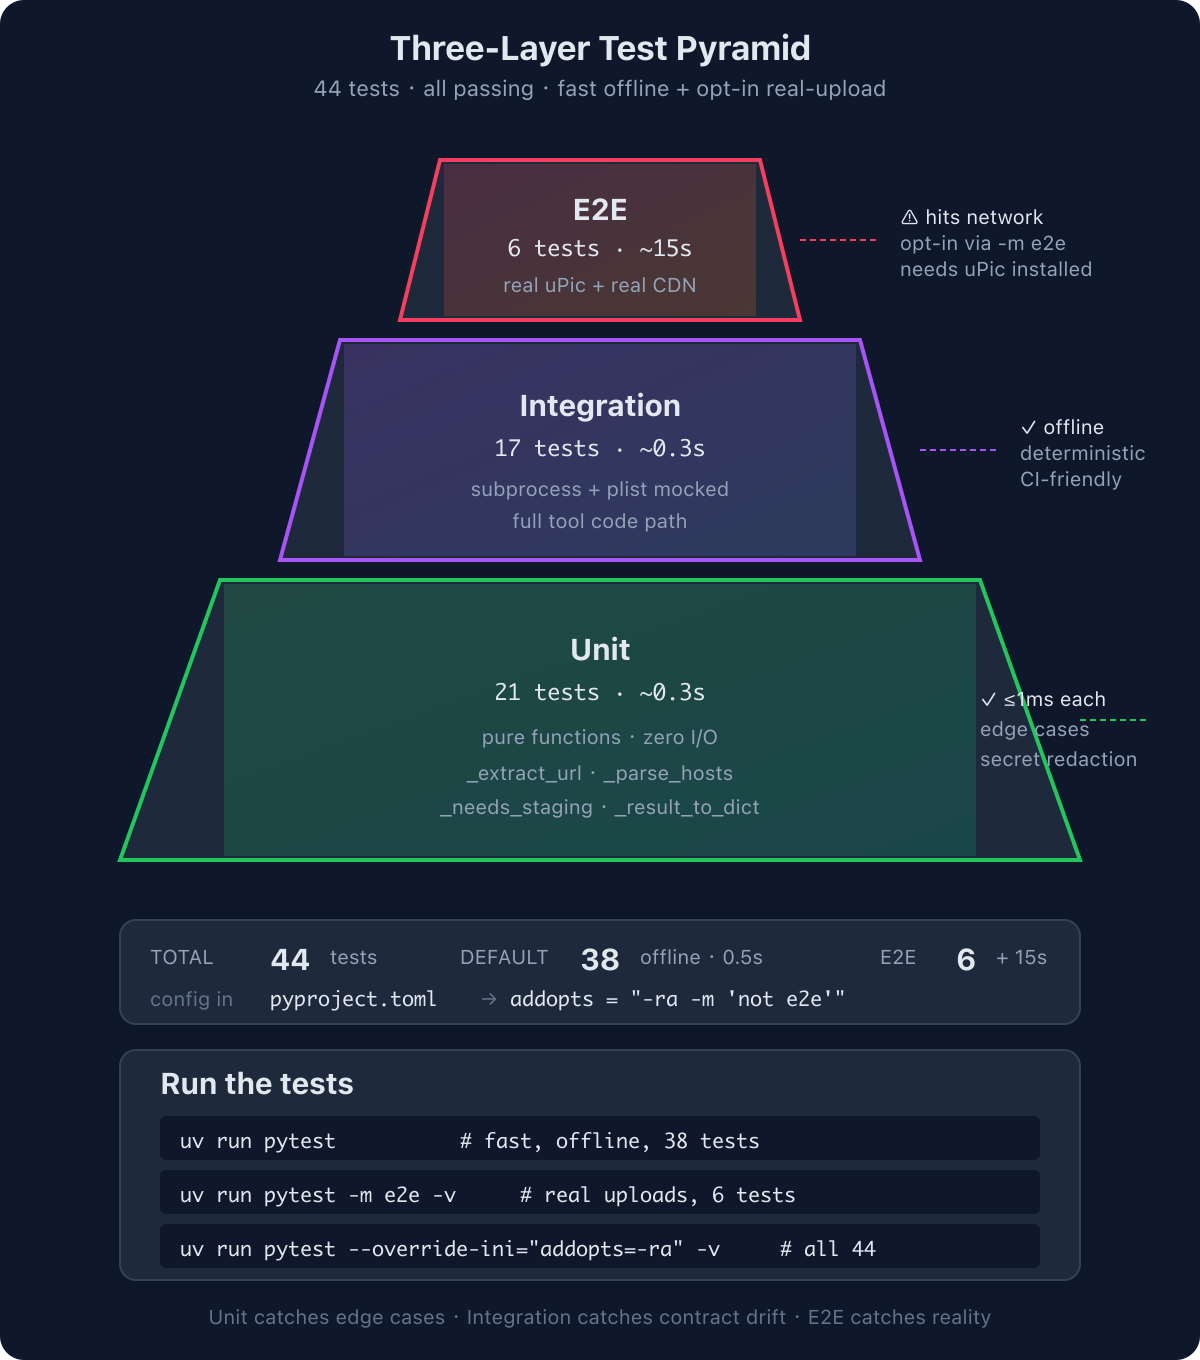
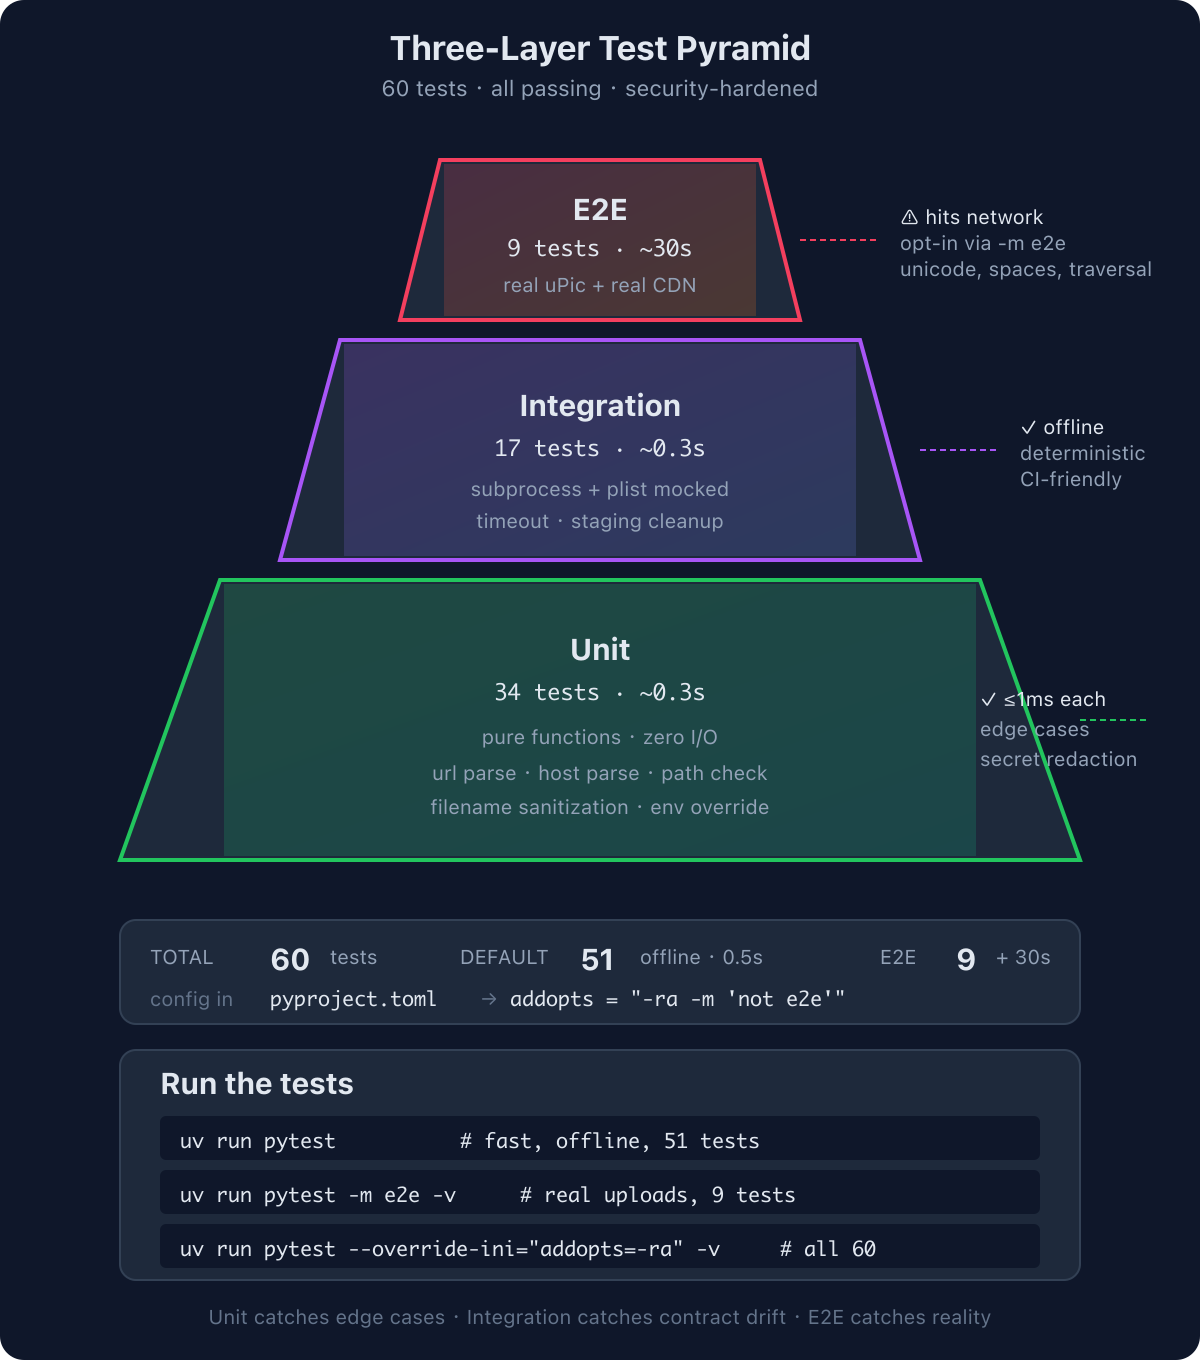
docs: sync documentation with hardening pass (60-test baseline)
Documentation updates reflecting the security/robustness hardening landed
in f9f8e57:

- test-pyramid.svg redrawn with new numbers (34/17/9/60), updated commands
  and side labels. PNG re-rendered and re-uploaded to CDN (URL unchanged).
- README: new Security section (filename traversal, command injection
  non-applicability, secrets exposure, staging cleanup, subprocess
  timeout, no sockets).
- README: new Configuration section documenting UPIC_BINARY env var.
- README: Highlights list augmented with 'Security-hardened' bullet.
- README: Troubleshooting adds 'Two uPic icons in menu bar' and
  'Non-standard uPic.app location' entries.
- README: Roadmap checklist marks completed items.
- README: Testing section counts and runtime updated to 60-test baseline.
- CHANGELOG: Unreleased section documents all doc changes.

diff --git a/README.md b/README.md
@@ -39,7 +39,8 @@ Five MCP tools, production-tested with 44 automated tests:
 - 🌍 **Works with all 12 uPic hosts** — Qiniu KODO / UPYUN / Aliyun OSS / Tencent COS / Amazon S3 / Imgur / GitHub / Gitee / SMMS / Weibo / Baidu BOS / custom.
 - 🗜 **Compression is automatic** — whatever you set in the UI (e.g. "Compress to 90% quality") is applied to MCP uploads too, because both paths go through `BaseUploaderUtil.compressImage`.
 - 📦 **Sandbox-safe** — uPic's sandbox can only read files under a whitelisted set of prefixes. This server detects that and transparently stages out-of-whitelist files.
-- 🧪 **Well-tested** — 21 unit + 17 integration + 6 end-to-end tests. Default `pytest` runs in <1s fully offline; `pytest -m e2e` runs 6 real round-trip uploads in ~15s.
+- 🛡 **Security-hardened** — filename path traversal is blocked (basename sanitization), staging files are auto-cleaned on upload failure, and secrets never appear in tool output. See the [Security](#security) section for the full threat model.
+- 🧪 **Well-tested** — 34 unit + 17 integration + 9 end-to-end tests (60 total). Default `pytest` runs in ~0.5s fully offline; `pytest -m e2e` runs 9 real round-trip uploads in ~30s.
 - 🪶 **Zero-config** — reads your existing uPic configuration directly from `~/Library/Containers/com.svend.uPic.macos/Data/Library/Preferences/com.svend.uPic.macos.plist`.
 
 ## Requirements
@@ -190,22 +191,101 @@ The `quality_factor` field in tool results maps to uPic's **"Compress images bef
 - JPGs use `NSBitmapImageRep.compressionFactor`
 - Other formats (GIF, WebP, SVG, PDF, …) pass through uncompressed
 
+## Configuration
+
+The server ships with zero-config by design — it reads everything from your
+existing uPic UI settings. For non-standard installs, one environment variable
+is supported:
+
+| Variable | Default | Effect |
+|---|---|---|
+| `UPIC_BINARY` | `/Applications/uPic.app/Contents/MacOS/uPic` | Path to the uPic executable. Set this if you built uPic from source, moved the app to a non-standard location, or are running an unsigned developer build. |
+
+Set it in your MCP client's server config under `env`:
+
+```json
+{
+  "mcpServers": {
+    "upic": {
+      "command": "/path/to/upic-mcp/.venv/bin/python",
+      "args": ["/path/to/upic-mcp/server.py"],
+      "env": {
+        "UPIC_BINARY": "/Users/me/build/uPic.app/Contents/MacOS/uPic"
+      }
+    }
+  }
+}
+```
+
+All other settings (default host, image quality, save-key path, output format)
+come from uPic's UI directly. Change them in the menu bar app and the next MCP
+upload picks them up automatically — no server restart needed.
+
+## Security
+
+This server runs locally and never opens a listening socket. Security
+considerations focus on three threat surfaces:
+
+### 1. Filename path traversal (mitigated)
+
+`upload_image_from_base64` accepts an optional `filename` argument that
+controls the local staging path. The filename is sanitized to a **basename
+only** (`Path(filename).name` + leading-dot stripping) so calls like:
+
+```json
+{"data": "...", "filename": "../../etc/passwd"}
+```
+
+cannot write outside `~/.upic-staging/`. The attempt becomes a staged file
+named `passwd`, not a traversal. Empty / dotted-only filenames fall back to
+`image.png`. Covered by 4 unit tests and 1 end-to-end test.
+
+### 2. Command injection (not applicable)
+
+The uPic CLI is invoked via `subprocess.run(cmd, ...)` with `cmd` as a **list**
+of arguments — no shell is involved. File paths and filenames flow through
+as opaque argv values; shell metacharacters (`;`, `` ` ``, `$(…)`, `|`, etc.)
+cannot be interpreted. No `shell=True` appears anywhere in the codebase.
+
+### 3. Secrets exposure (mitigated)
+
+uPic stores host credentials (access keys, secret keys, client IDs) in its
+`UserDefaults` plist. The `list_hosts` tool strips the `data` field entirely
+before returning, so only `id`, `name`, and `type` are ever exposed. A unit
+test asserts that known-secret markers cannot appear in the tool's output.
+
+### Additional hardening
+
+- **Staging cleanup on failure.** When `upload_image_from_base64` fails, the
+  staging file we created is unlinked so bytes don't accumulate in
+  `~/.upic-staging/`. User-supplied file paths are never modified or deleted,
+  even on failure — an integration test pins this invariant.
+- **Subprocess timeout.** Every `_run_upic` call has a 120-second timeout;
+  a hung uPic CLI cannot block the MCP server indefinitely.
+- **No network code.** The MCP server itself never opens a socket. All
+  outbound traffic is uPic's own HTTPS upload to the image host.
+
+### Filesystem footprint
+
+```
+~/.upic-staging/            Staging directory (auto-created, content-hash dedup)
+~/.kiro/settings/mcp.json   Where Kiro learns about this server (you add the entry)
+```
+
+The server never writes anywhere else on disk. Uninstalling is just deleting
+the `upic-mcp/` folder and the `~/.upic-staging/` directory.
+
 ## Testing
 
 <p align="center">
-  <img src="https://img.aws.xin/uPic/test-pyramid.png" alt="Three-layer test pyramid: 21 unit + 17 integration + 6 e2e = 44 tests total" style="width:100%;max-width:720px" />
+  <img src="https://img.aws.xin/uPic/test-pyramid.png" alt="Three-layer test pyramid: 34 unit + 17 integration + 9 e2e = 60 tests total" style="width:100%;max-width:720px" />
 </p>
-
-> The pyramid diagram above reflects the v0.1.0 baseline (44 tests). The current
-> suite has grown to **60 tests** (34 unit + 17 integration + 9 e2e) after the
-> security / robustness hardening pass. All counts and commands below are
-> current.
 
 ```bash
 # Fast, offline, runs in ~0.5s
 uv run pytest                      # 51 passed (9 e2e deselected)
 
-# Real uploads to your CDN, ~15s
+# Real uploads to your CDN, ~30s
 uv run pytest -m e2e -v            # 9 passed
 
 # Everything
@@ -279,10 +359,56 @@ That's expected. `quality_factor` is a **quality** setting, not a size-reduction
 E2E tests require uPic.app to be installed and at least one host configured. CI should run `uv run pytest` (without `-m e2e`), which excludes the e2e suite via the default `addopts` in `pyproject.toml`.
 </details>
 
+<details>
+<summary><strong>Two uPic icons in the menu bar after development / testing</strong></summary>
+
+This happens when uPic is accidentally launched without a `-u` argument — the CLI branch only activates for commands like `uPic -u file.png -o url`. Anything else (including `uPic --help`, `uPic --version`, or a bare `uPic`) falls through to UI mode and spawns a second menu-bar instance.
+
+**MCP uploads never cause this** — `server.py` always invokes `uPic` with `-u`. The duplicate usually comes from manually probing the CLI in a terminal.
+
+**Check & cleanup:**
+
+```bash
+# How many uPic processes are running?
+ps aux | grep -iE "/uPic" | grep -v grep
+
+# Should be 1. If more, identify the stale PID (older START time or a
+# --help-style command) and kill it:
+kill -9 <PID>
+```
+
+The menu bar refreshes on the next click.
+</details>
+
+<details>
+<summary><strong>Using a non-standard uPic.app location</strong></summary>
+
+Set the `UPIC_BINARY` environment variable in the server's MCP config:
+
+```json
+{
+  "upic": {
+    "command": "/path/to/.venv/bin/python",
+    "args": ["/path/to/server.py"],
+    "env": {
+      "UPIC_BINARY": "/Users/me/build/uPic.app/Contents/MacOS/uPic"
+    }
+  }
+}
+```
+
+Also see the [Configuration](#configuration) section.
+</details>
+
 ## Roadmap
 
-This project is the `upload-only` MVP. Planned expansion in rough priority order:
+The MVP upload pipeline is production-hardened with 60 passing tests. Planned
+expansion in rough priority order:
 
+- [x] ~~Upload by path, base64, and automatic sandbox staging~~ (v0.1.0)
+- [x] ~~`list_hosts`, `get_default_host`, `uploader_info`~~ (v0.1.0)
+- [x] ~~Environment-variable override for `UPIC_BINARY`~~ (hardening pass)
+- [x] ~~Path-traversal protection for base64 filenames~~ (hardening pass)
 - [ ] `set_default_host(name_or_id)` — switch uPic's default host from agent
 - [ ] `set_compress_factor(factor)` — change quality without the menu bar
 - [ ] `get_upload_history(limit, host?)` — read the WCDB history database directly

diff --git a/CHANGELOG.md b/CHANGELOG.md
@@ -7,6 +7,25 @@ and this project adheres to [Semantic Versioning](https://semver.org/spec/v2.0.0
 
 ## [Unreleased]
 
+### Documentation
+
+- README: new **Security** section documenting the three-surface threat model
+  (filename path traversal, command injection non-applicability, secrets
+  exposure) and additional hardening measures (staging cleanup, subprocess
+  timeout, no network sockets).
+- README: new **Configuration** section documenting the `UPIC_BINARY`
+  environment variable for non-standard uPic installs.
+- README: Highlights list updated with a **"Security-hardened"** bullet.
+- README: Troubleshooting section got two new entries — "Two uPic icons in
+  the menu bar" and "Using a non-standard uPic.app location".
+- README: Roadmap checklist now marks completed items (core upload,
+  list/info tools, `UPIC_BINARY` override, path-traversal protection).
+- README: test counts and runtime numbers updated to reflect the 60-test
+  suite (34 unit + 17 integration + 9 e2e).
+- `docs/test-pyramid.svg` redrawn with new numbers (34 / 17 / 9 / 60),
+  updated commands, and updated side labels. Re-rendered to 2× PNG and
+  re-uploaded to the CDN (URL unchanged).
+
 ### Security
 
 - **Path traversal protection** in `upload_image_from_base64`: the `filename`
